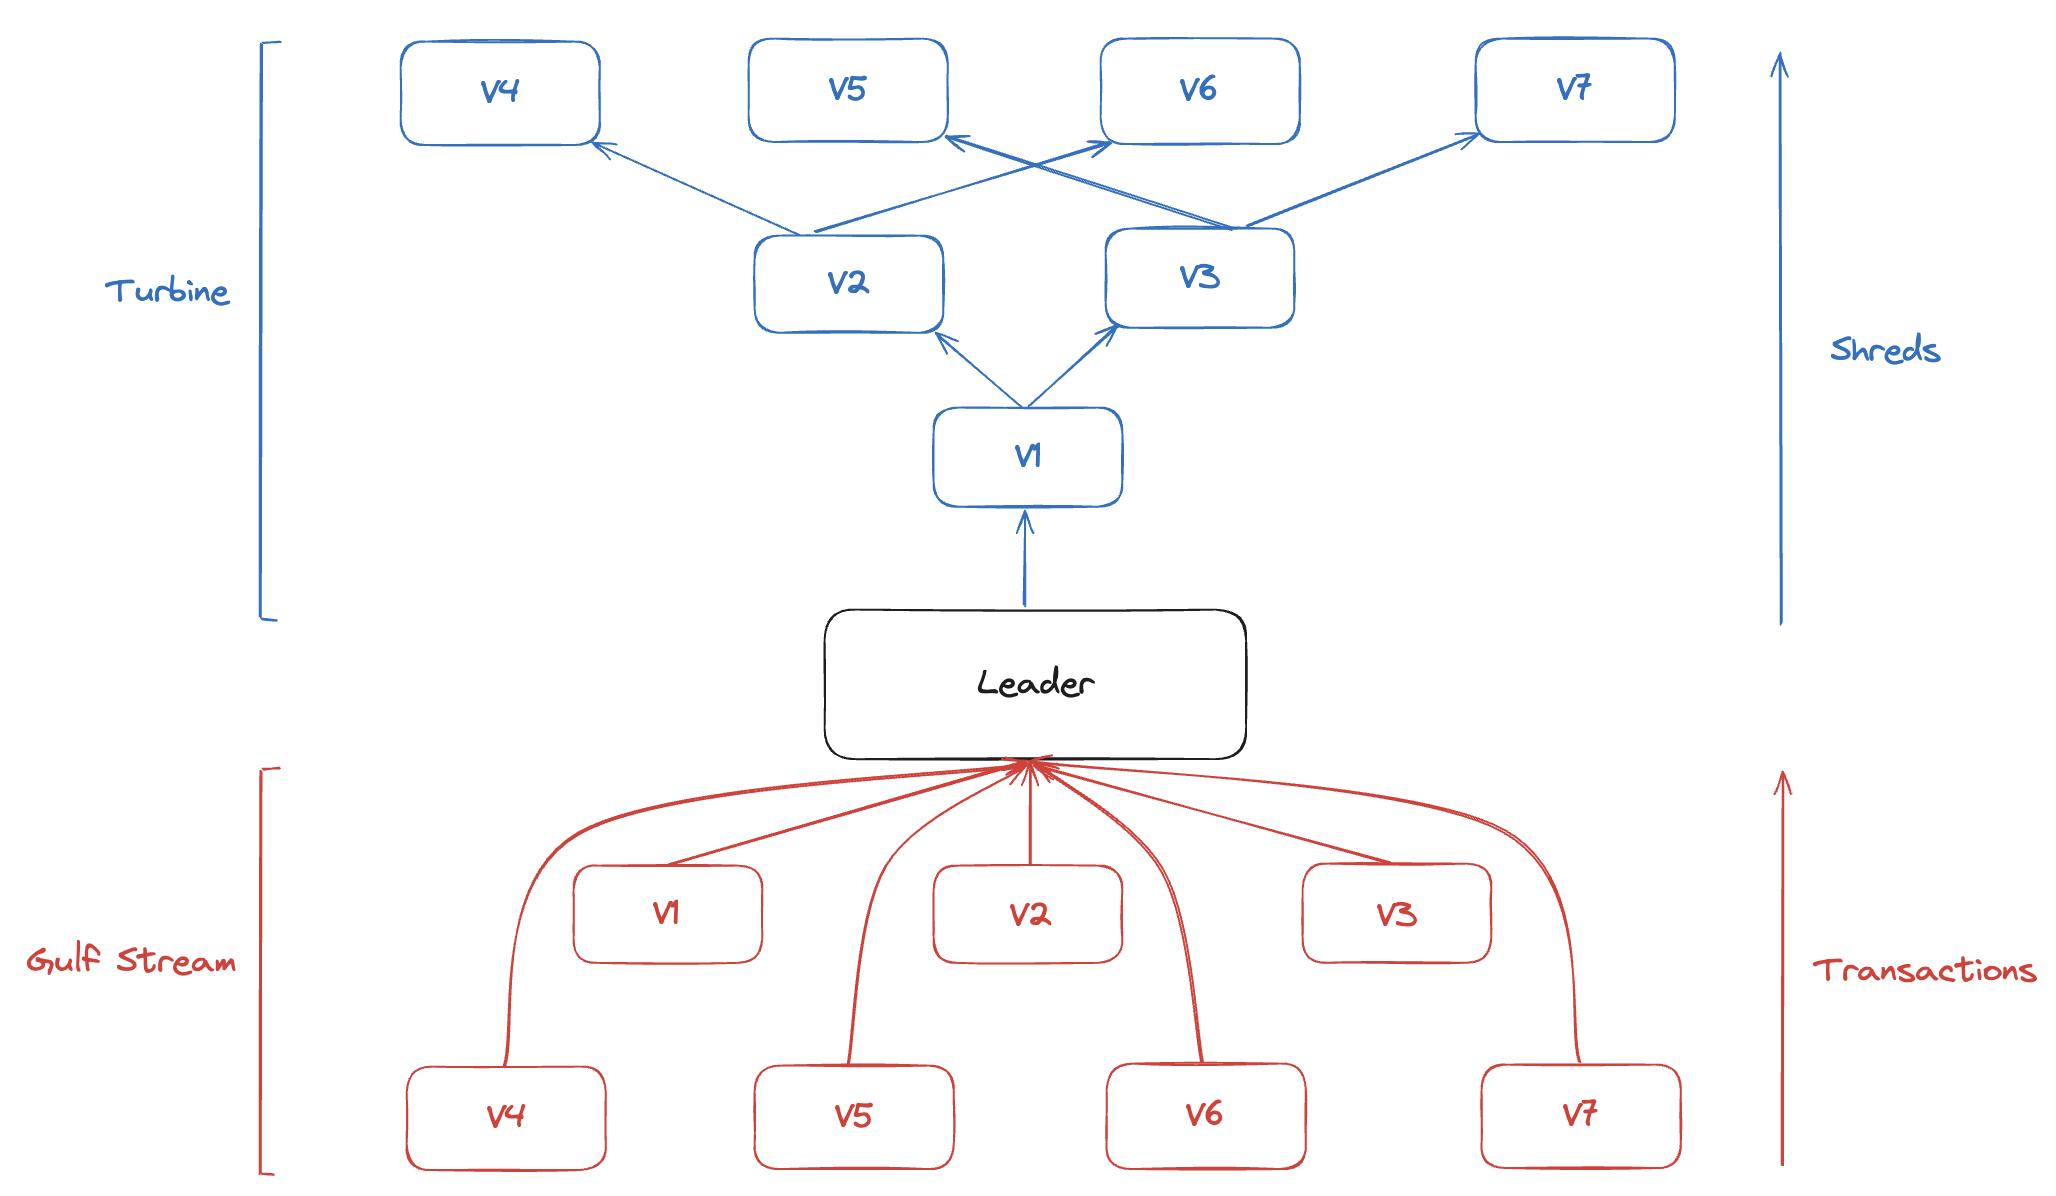
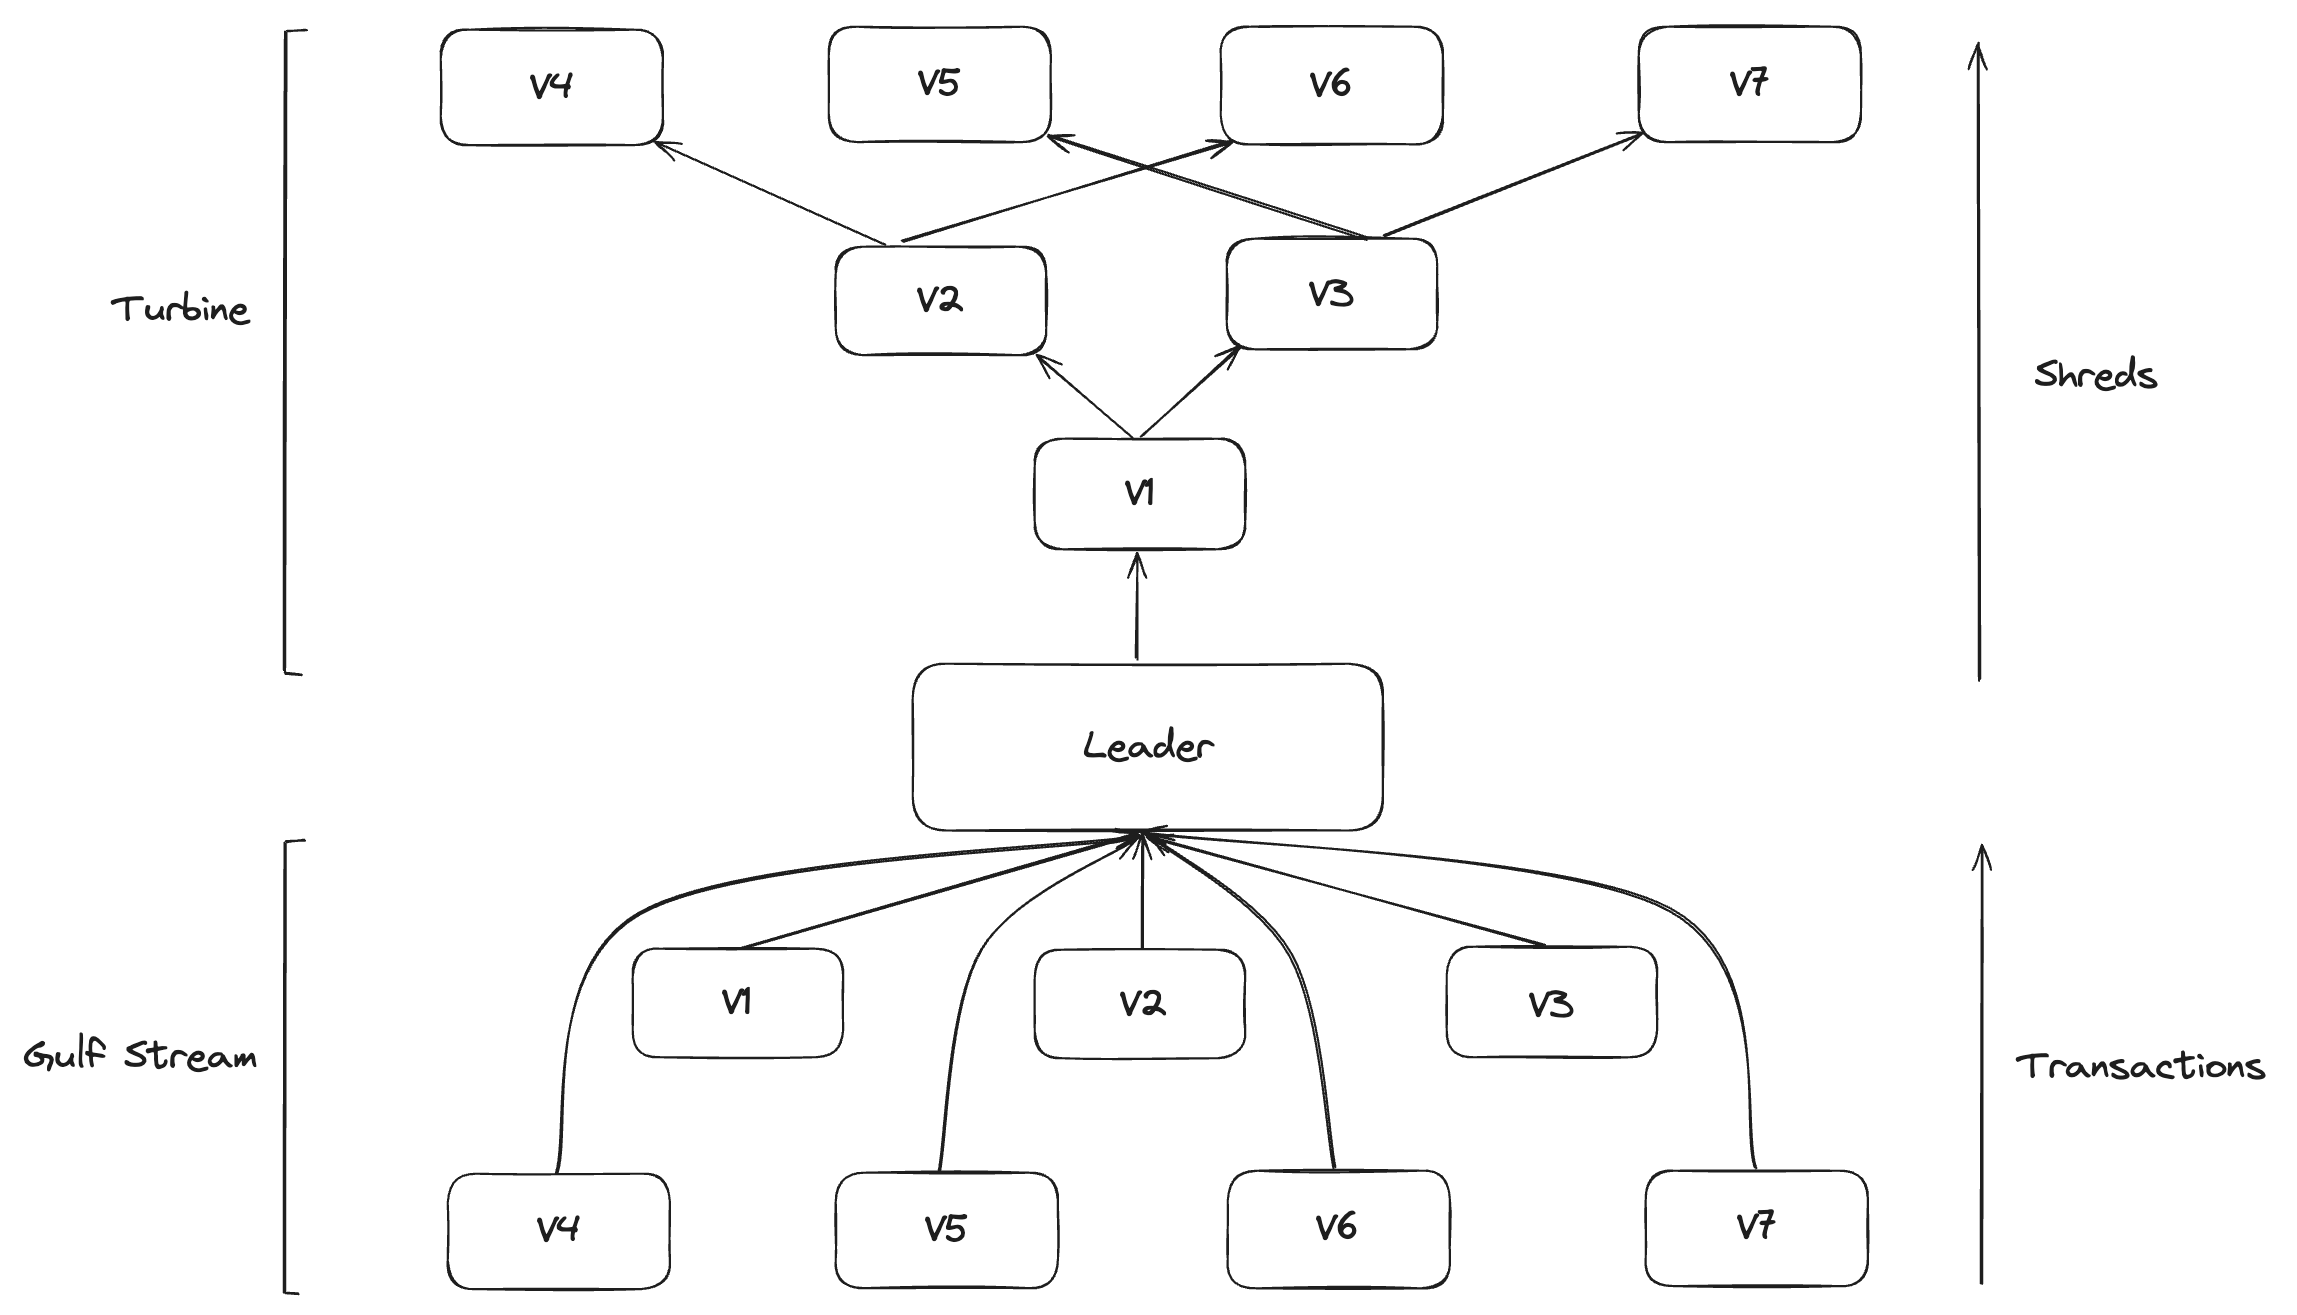
Address turbine logging and add Turbine retransmit diagram

diff --git a/demo/readme.md b/demo/readme.md
@@ -49,7 +49,7 @@ Sig retransmit stage of turbine block propagation:
 
 
 <p>
-<img alt="Turbine Tree Diagram" src="imgs/turbine_tree.png" style="width: 800px; margin: auto;">
+<img alt="Turbine Retransmit" src="imgs/turbine-retransmit.png" style="width: 900px; margin: auto;">
 </p>
 
 ### Stake Overwrite Tests
